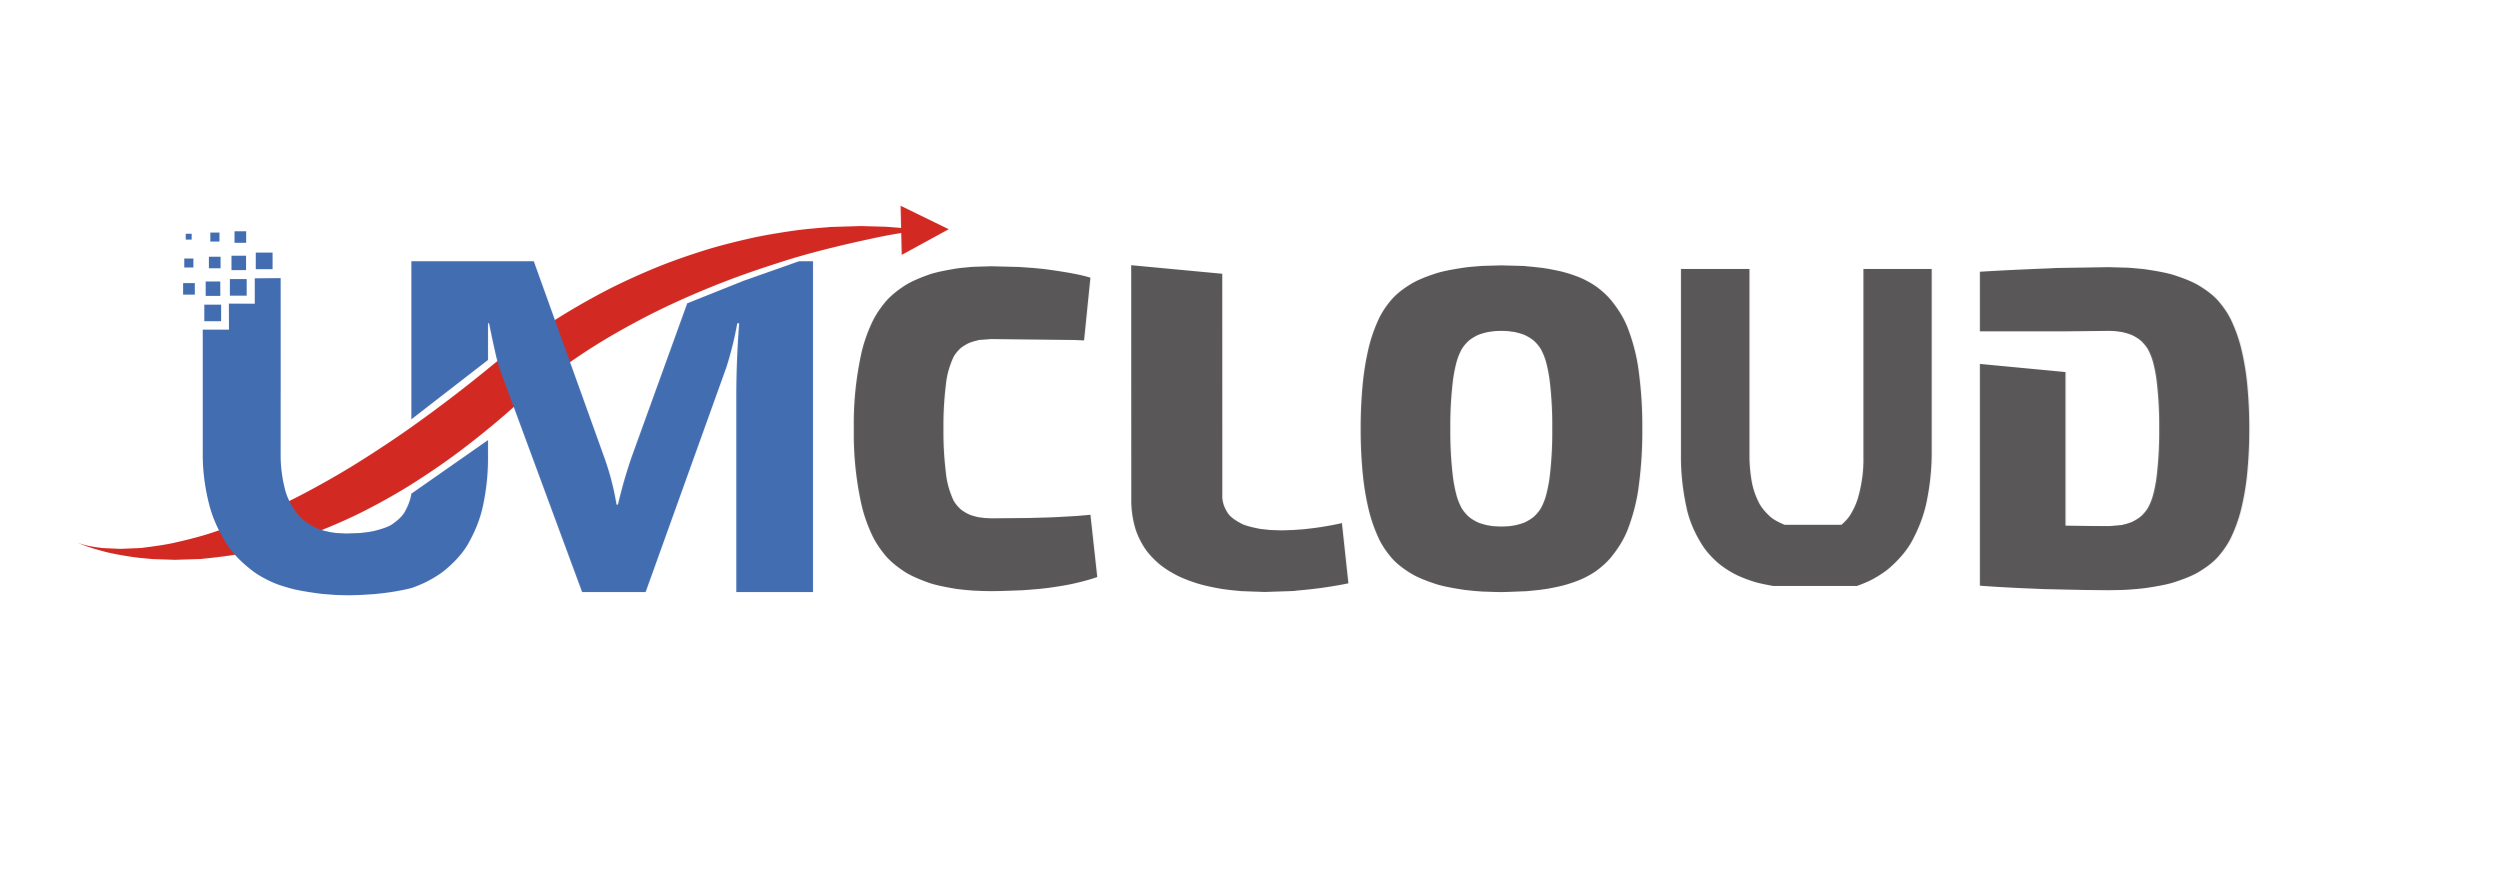
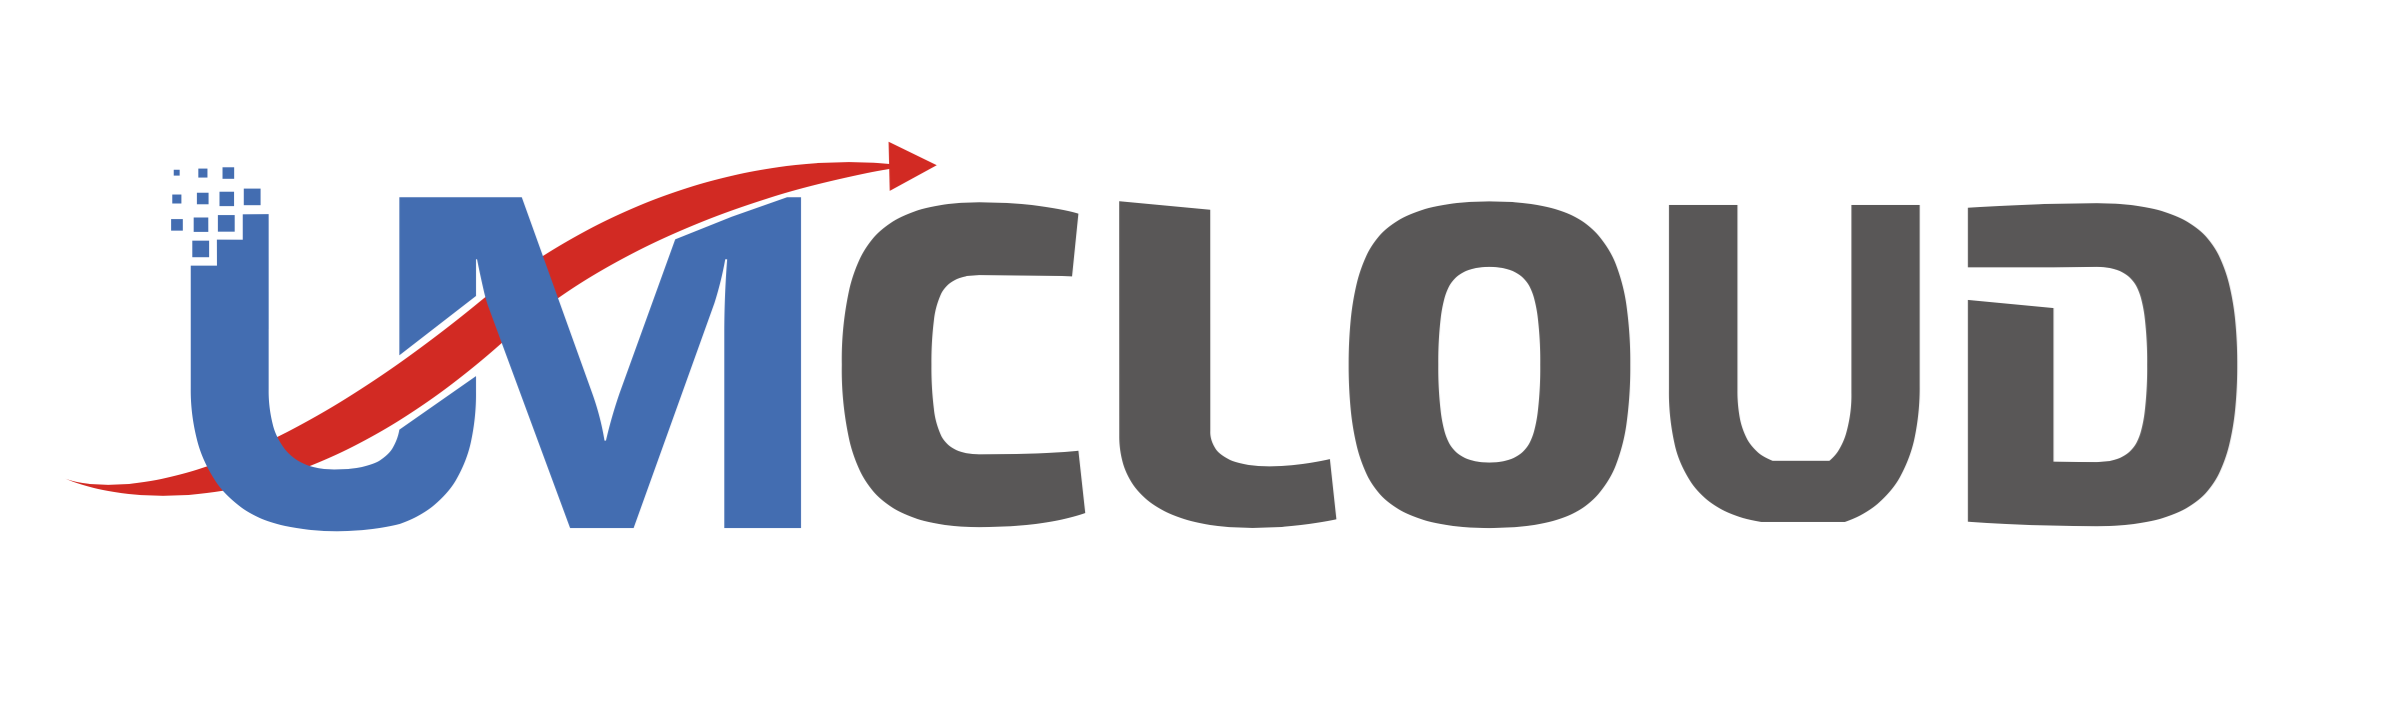
adjust layout and add description

Changed region(s): [[0.031, 0.1831, 0.9614, 0.7628], [0.062, 0.2441, 0.1241, 0.3662]]

diff --git a/_includes/partners.html b/_includes/partners.html
@@ -56,8 +56,9 @@
                         <div class="caption-content">
                         </div>
                     </div>
-                    <img src="/img/partners/umcloud.png" style="height:100px" class="img-responsive img-centered"
+                    <img src="/img/partners/umcloud.png" style="height:80px" class="img-responsive img-centered"
                          style="margin-top: -8px">
+                    <span class="text-center">生态合作伙伴</span>
                 </a>
             </div>
             <div class="col-sm-4 partner-item">
